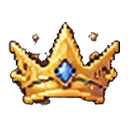
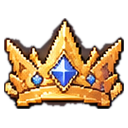
v18.2: 29 canh gioi, emoji moi, Tien cao x5 EXP

diff --git a/src/ui/quantriViews.js b/src/ui/quantriViews.js
@@ -35,7 +35,7 @@ const MODALS = {
   gear: { view: 'vp', title: 'Cho trang bị', fields: [U, { id: 't', label: 'Trang bị (tên hoặc mã)', maxLength: 80, placeholder: 'Thanh Phong Kiếm' }, { id: 'q', label: 'Phẩm chất 1–5 (mặc định 3)', required: false, maxLength: 1, placeholder: '3' }], run: (a, g) => A.gear(a, g('u'), g('t'), g('q')) },
   prof: { view: 'vp', title: 'Đặt cấp nghề', fields: [U, { id: 'p', label: 'Nghề', maxLength: 30, placeholder: 'Đan Sư / Luyện Khí Sư / Trận Pháp Sư / Linh Thực Sư' }, { id: 'l', label: 'Cấp 1–9', maxLength: 1, placeholder: '5' }, { id: 'e', label: 'EXP nghề (bỏ trống = đúng ngưỡng cấp)', required: false, maxLength: 12 }], run: (a, g) => A.profLevel(a, g('u'), g('p'), g('l'), g('e')) },
   jobs: { view: 'vp', title: 'Hoàn tất lò chế đang chạy', fields: [U], run: (a, g) => A.finishJobs(a, g('u')) },
-  realm: { view: 'nv', title: 'Đặt cảnh giới', fields: [U, { id: 'r', label: 'Cảnh giới (số 0–14 hoặc tên)', maxLength: 30, placeholder: 'Độ Kiếp  hoặc  9' }, { id: 's', label: 'Tầng (bắt đầu từ 1)', required: false, maxLength: 3, placeholder: '1' }], run: (a, g) => A.realm(a, g('u'), g('r'), g('s')) },
+  realm: { view: 'nv', title: 'Đặt cảnh giới', fields: [U, { id: 'r', label: 'Cảnh giới (số 0–28 hoặc tên)', maxLength: 30, placeholder: 'Độ Kiếp  hoặc  9' }, { id: 's', label: 'Tầng (bắt đầu từ 1)', required: false, maxLength: 3, placeholder: '1' }], run: (a, g) => A.realm(a, g('u'), g('r'), g('s')) },
   tuvi: { view: 'nv', title: 'Đặt tu vi', fields: [U, { id: 'n', label: 'Tu vi: số, +số, -số hoặc full', maxLength: 20, placeholder: 'full' }], run: (a, g) => A.tuvi(a, g('u'), g('n')) },
   lt: { view: 'nv', title: 'Đặt Linh Thạch', fields: [U, { id: 'n', label: 'Số: 1000000, +5000 hoặc -5000', maxLength: 20 }], run: (a, g) => A.currency(a, g('u'), 'linh_thach', g('n')) },
   lti: { view: 'nv', title: 'Đặt Linh Tinh', fields: [U, { id: 'n', label: 'Số: 100, +10 hoặc -10', maxLength: 20 }], run: (a, g) => A.currency(a, g('u'), 'linh_tinh', g('n')) },
@@ -45,7 +45,7 @@ const MODALS = {
     { id: 'b', label: `Tiểu cảnh giới (mặc định ${A.ORIG.minor})`, required: false, maxLength: 12 },
     { id: 'c', label: `Đại cảnh giới (mặc định ${A.ORIG.major})`, required: false, maxLength: 12 }],
   run: (a, g) => ['exp:a', 'minor:b', 'major:c'].map((x) => { const [k, f] = x.split(':'); return A.ecoSet(a, k, g(f)); }).filter((r) => !r.skip).map((r) => r.msg).join('\n') || 'ℹ Không có gì thay đổi.' },
-  tien: { view: 'kt', title: 'Hệ số cảnh giới Tiên', fields: [{ id: 'a', label: `x EXP khi đột phá trên Độ Kiếp (mặc định ${A.ORIG.tien})`, maxLength: 12, placeholder: '7' }], run: (a, g) => A.ecoSet(a, 'tien', g('a')).msg },
+  tien: { view: 'kt', title: 'Hệ số cảnh giới Tiên', fields: [{ id: 'a', label: `x EXP khi đột phá trên Độ Kiếp (mặc định ${A.ORIG.tien})`, maxLength: 12, placeholder: '7' }, { id: 'b', label: `x thêm cho Tiên cao (mặc định ${A.ORIG.tiencao})`, maxLength: 12, placeholder: '5', required: false }], run: (a, g) => [A.ecoSet(a, 'tien', g('a')).msg, A.ecoSet(a, 'tiencao', g('b')).msg].filter(Boolean).join('\n') || 'Không đổi gì.' },
   drop: { view: 'kt', title: 'Hệ số rơi nguyên liệu', fields: [{ id: 'a', label: 'Nhân xác suất rơi (0–5, mặc định 1)', maxLength: 8, placeholder: '1.5' }], run: (a, g) => `${A.ecoSet(a, 'drop', g('a')).msg}\nℹ Trần rơi theo ngày/tuần/phẩm cấp vẫn áp dụng — không thể rơi vô hạn.` },
   npc: { view: 'kt', title: 'Giá NPC', fields: [
     { id: 'a', label: 'Giá NPC thu mua ×(0.1–3, mặc định 1)', required: false, maxLength: 8 },
@@ -94,7 +94,7 @@ function viewHome(uid) {
     F('🚧 Bảo trì', o.maint ? '🔴 ĐANG BẬT (`/baotri` để tắt)' : '🟢 Tắt', true),
     F('⚡ Tăng tốc tu luyện', o.speed.active ? `×${o.speed.mult} — ${mins(o.speed.until)}` : 'Không có sự kiện', true),
     F('🎁 Tăng tỉ lệ rơi', o.evDrop.active ? `×${o.evDrop.mult} — ${mins(o.evDrop.until)}` : 'Không có sự kiện', true),
-    F('📈 Hệ số hiện hành', `EXP gốc **${A.ecoGet('exp')}** · Tiên **×${A.ecoGet('tien')}** · Rơi **×${A.ecoGet('drop')}** · NPC thu **×${A.ecoGet('sell')}** / bán **×${A.ecoGet('buy')}**`),
+    F('📈 Hệ số hiện hành', `EXP gốc **${A.ecoGet('exp')}** · Tiên **×${A.ecoGet('tien')}** · Tiên cao **×${A.ecoGet('tiencao')}** · Rơi **×${A.ecoGet('drop')}** · NPC thu **×${A.ecoGet('sell')}** / bán **×${A.ecoGet('buy')}**`),
   );
   return { embeds: [e], components: [navRow(uid, 'home')] };
 }
@@ -114,7 +114,7 @@ function viewKt(uid) {
   const R = require('../game/realm'); const o = A.overview(); const e = new EmbedBuilder().setTitle('💰 Kinh Tế').setColor(0xf39c12);
   e.setDescription(fit('Chỉnh **ngay trong game**, lưu vào cơ sở dữ liệu (còn sau khi khởi động lại), có biên an toàn. Khoảng trống bỏ qua = giữ nguyên; gõ `mac dinh` để về giá trị gốc.', 500));
   const row = (k) => { const v = A.ecoGet(k); const d = A.ORIG[k]; return `${A.ECO[k].label}: **${v}**${v === d ? '' : ` _(gốc ${d})_`}`; };
-  e.addFields(F('📊 Hệ số', ['exp', 'minor', 'major', 'tien', 'drop', 'sell', 'buy'].map(row).join('\n')),
+  e.addFields(F('📊 Hệ số', ['exp', 'minor', 'major', 'tien', 'tiencao', 'drop', 'sell', 'buy'].map(row).join('\n')),
     F('🎯 Mốc tu vi để đột phá (xem trước)', `Luyện Khí tầng 1: **${fmtNum(o.gates.tuvi0)}**\nHóa Thần Viên Mãn: **${fmtNum(o.gates.hoathan)}**\nĐộ Kiếp Viên Mãn → Chân Tiên: **${fmtNum(o.gates.dokiep)}**\nChân Tiên tầng 1: **${fmtNum(o.gates.chantien)}**`));
   return { embeds: [e], components: [navRow(uid, 'kt'), rowOf(btn(cid(uid, 'm', 'expc'), 'EXP đột phá', '📈', ButtonStyle.Primary), btn(cid(uid, 'm', 'tien'), 'Hệ số Tiên', '👑'), btn(cid(uid, 'm', 'drop'), 'Rơi đồ', '🎁'), btn(cid(uid, 'm', 'npc'), 'Giá NPC', '🏪'), btn(cid(uid, 'm', 'reset'), 'Mặc định', '↩', ButtonStyle.Danger))] };
 }

diff --git a/scripts/test_realms_v18.js b/scripts/test_realms_v18.js
@@ -44,10 +44,14 @@ for (const [r, s, w] of [[1, 0, 0], [5, 7, 1], [9, 22, 1], [10, 0, 2], [13, 3, 2
 ok(R.tuViRequiredBase(13, 0, 2) === Math.trunc(100 * 3 ** 13 * 50 ** 2), 'base idx13 giữ nguyên'); ok(R.realmSpeedMult(13) === 16 * 1.35 ** 4 || Math.abs(R.realmSpeedMult(13) - K.REALM_SPEED_MULT[9] * 1.35 ** 4) < 1e-6, 'speed idx13 giữ nguyên');
 // Tiên Đế mới (19) = đúng mức Tiên Đế cũ (14 cũ) về tốc độ (không lạm phát linh thạch)
 ok(Math.abs(R.realmSpeedMult(19) - K.REALM_SPEED_MULT[9] * 1.35 ** 5) < 1e-6, 'tốc độ Tiên Đế mới = Tiên Đế cũ');
-ok(Math.abs(R.tuViRequiredBase(19, 0, 2) / R.tuViRequiredBase(13, 0, 2) - 3) < 0.01, 'mốc Tiên Đế mới ≈ ×3 Đại La (đúng 1 bậc cũ)');
+ok(Math.abs(R.tuViRequiredBase(19, 0, 2) / R.tuViRequiredBase(13, 0, 2) - K.HIGH_REALM_GROWTH ** 6) < 0.01, 'mốc tăng ×HIGH_REALM_GROWTH mỗi bậc sau Đại La');
 ok(R.realmSpeedMult(28) < 200, `speed Siêu Thoát hợp lý: ${R.realmSpeedMult(28)}`);
-// Cơ chế v17.1 vẫn còn: x7 từ Độ Kiếp Viên Mãn trở lên
-ok(R.tienExpMult(9, 22) === 7 && R.tienExpMult(9, 21) === 1 && R.tienExpMult(28, 3) === 7 && R.tienExpMult(14, 0) === 7, 'x7 EXP Tiên');
+// Cơ chế v17.1 vẫn còn: x7 từ Độ Kiếp Viên Mãn trở lên; v18.2: Tiên cao (từ Chuẩn Tiên Vương) thêm x5 → x35
+ok(R.tienExpMult(9, 22) === 7 && R.tienExpMult(9, 21) === 1 && R.tienExpMult(10, 0) === 7 && R.tienExpMult(13, 3) === 7, 'x7 EXP Tiên (Chân Tiên … Đại La Kim Tiên)');
+ok(K.HIGH_TIEN_EXP_MULT === 5 && R.tienExpMult(14, 0) === 35 && R.tienExpMult(19, 2) === 35 && R.tienExpMult(28, 3) === 35, 'x35 EXP Tiên cao');
+// Siêu Thoát Viên Mãn ở Tiên Giới (thế giới bậc 2) vẫn DƯỚI trần (không bị phẳng hoá ở các cảnh giới cuối)
+ok(R.tuViRequired(28, 3, 2) < K.TU_VI_REQUIRED_CAP && R.tuViRequired(27, 3, 2) < R.tuViRequired(28, 3, 2), 'Tiên Giới: không chạm trần');
+ok(R.tuViRequired(14, 0, 2) === Math.trunc(R.tuViRequiredBase(14, 0, 2) * K.EXP_REQUIRED_MULT * K.EXP_GATE_MINOR_MULT * 35), 'công thức Tiên cao');
 // --- đột phá thật qua dotpha: đi liên tiếp từ Luyện Khí Tầng 1 tới Siêu Thoát Viên Mãn (ép may mắn), rồi bị chặn
 Cu.createCultivator(901);
 const origRand = Math.random; Math.random = () => 0.0001;
@@ -84,8 +88,9 @@ ok(EM.realmEmoji(99) === EM.realmEmoji(28) && EM.realmEmoji(-3) === EM.realmEmoj
 for (const k of ['so_ky', 'trung_ky', 'hau_ky', 'vien_man']) { ok(fs.existsSync(path.join(__dirname, '..', 'assets', 'emoji', `${k}.png`)) && EM.FALLBACK[k], `emoji ${k}`); }
 ok(EM.stageEmoji(19, 0) && EM.stageEmoji(19, 0) !== EM.stageEmoji(19, 3) && EM.stageEmoji(1, 5) === '' && EM.stageEmoji(0, 0) === '', 'stageEmoji');
 ok(EM.remoteName('canhgioi_14') === 'tg7_canhgioi_14_v18' && EM.remoteName('canhgioi_13') === 'tg7_canhgioi_13' && EM.remoteName('canhgioi_14').length <= 32, 'tên emoji trên Discord');
-// canhgioi_19 = tranh vương miện của Tiên Đế cũ (giữ nguyên)
-ok(crc(19) === '5eeefd55934b6569f3811f427d4593f2', 'canhgioi_19 phải là vương miện Tiên Đế cũ'); ok(crc(14) !== crc(19), 'canhgioi_14 mới khác vương miện');
+// v18.1: emoji 14–28 là tranh người dùng tự vẽ (cắt từ sheet) — phải có nền trong suốt (alpha) và không rỗng
+for (let i = 14; i <= 28; i++) { const png = fs.readFileSync(path.join(__dirname, '..', 'assets', 'emoji', `canhgioi_${i}.png`)); ok(png[25] === 6, `canhgioi_${i}.png phải là RGBA`); ok(png.length > 3000, `canhgioi_${i}.png quá nhỏ`); }
+ok(fs.existsSync(path.join(__dirname, '..', 'assets', 'source', 'canhgioi_sheet_v18_1.png')), 'thiếu sheet gốc canhgioi_sheet_v18_1.png');
 // cố định: realm cấp thấp (0–13) giữ nguyên ảnh? đã có trong git; kiểm tra tên file còn đủ
 ok(Object.keys(EM.FALLBACK).filter((k) => /^canhgioi_\d+$/.test(k)).length >= 29, 'fallback đủ 29');
 console.log(`✅ test_realms_v18 OK (${n} kiểm tra)`);

diff --git a/src/game/constants.js b/src/game/constants.js
@@ -35,8 +35,8 @@ const TIEN_DE_REALM_IDX = REALMS.findIndex((r) => r.name === 'Tiên Đế');   /
 
 // v18.0: với 29 cảnh giới, công thức ×3 / đại cảnh giới (và ×1,35 hệ số tốc độ) sẽ TRÀN số nguyên khi lên tới Siêu Thoát (3^28 × 50^tier > 2^63).
 // Từ SAU Đại La Kim Tiên (idx 13) tăng chậm hơn: mỗi đại cảnh giới ×3^(1/6) mốc tu vi, ×1,35^(1/6) hệ số tốc độ — nên 6 bậc sau Đại La Kim Tiên (tức Tiên Đế mới, idx 19)
-// ra ĐÚNG mức 1 bậc cũ (Tiên Đế cũ, idx 14) → người chơi Tiên Đế cũ không bị lạm phát/thiếu hụt tu vi, linh thạch khi chuyển sang cảnh giới mới.
-const HIGH_REALM_GROWTH = 3 ** (1 / 6);
+// ra ĐÚNG mức tốc độ/linh thạch của Tiên Đế cũ (idx 14) → người chơi Tiên Đế cũ không bị lạm phát linh thạch khi chuyển sang cảnh giới mới.
+const HIGH_REALM_GROWTH = 1.165;   // v18.2 (v18.0: 3^(1/6)≈1,2009): chậm hơn một chút để Siêu Thoát Viên Mãn sau khi nhân x35 vẫn dưới trần ở Tiên Giới (thế giới bậc 2)
 const HIGH_REALM_SPEED_STEP = 1.35 ** (1 / 6);
 // Trần an toàn của mốc tu vi: 9×10^15 < Number.MAX_SAFE_INTEGER (2^53-1) — số lớn hơn không còn chính xác trong JS / cột INTEGER đọc về bằng number.
 const TU_VI_REQUIRED_CAP = 9e15;
@@ -62,6 +62,10 @@ const EXP_GATE_MAJOR_MULT = _gm('EXP_GATE_MAJOR_MULT', 0.12)   // v16.1: giảm 
 // v17.1: mốc tu vi để đột phá TRÊN Độ Kiếp Viên Mãn (tức bước vào & đi trong các cảnh giới Tiên) nhân thêm hệ số này (mặc định x7).
 // Chỉ tác động R.tuViRequired (điều kiện đột phá/hiển thị); tốc độ & phần thưởng tu vi tính từ mốc GỐC nên KHÔNG đổi. Env TIEN_EXP_MULT để chỉnh.
 const TIEN_EXP_MULT = _gm('TIEN_EXP_MULT', 7);
+// v18.2: các cảnh giới TIÊN CAO (từ Chuẩn Tiên Vương, tức sau Đại La Kim Tiên) cần thêm x5 EXP đột phá, NHÂN CHỒNG với x7 ở trên (tổng x35 so với trước v17.1).
+// Cùng nguyên tắc: chỉ đổi mốc tu vi (R.tuViRequired); tốc độ/phần thưởng không đổi. Env HIGH_TIEN_EXP_MULT; /quantri → Kinh tế → "Hệ số Tiên" chỉnh được.
+const HIGH_TIEN_EXP_MULT = _gm('HIGH_TIEN_EXP_MULT', 5);
+const HIGH_TIEN_START_IDX = 14;   // = DAILA_REALM_IDX + 1 (Chuẩn Tiên Vương)
 
 const HOATHAN_REALM_IDX = 5;
 const HOATHAN_VIENMAN_STAGE = totalStageCount(HOATHAN_REALM_IDX) - 1;
@@ -87,6 +91,6 @@ module.exports = {
   ...C,
   ADMIN_CODE_APPROVER_IDS, ADMIN_DISCORD_IDS, addAdmin, REALMS, TANG_20, TANG_23, totalStageCount,
   MAX_REALM_IDX, DAILA_REALM_IDX, HIGH_REALM_GROWTH, HIGH_REALM_SPEED_STEP, TU_VI_REQUIRED_CAP, OLD_TIENDE_REALM_IDX, TIEN_DE_REALM_IDX,
-  HOATHAN_REALM_IDX, HOATHAN_VIENMAN_STAGE, DOKIEP_REALM_IDX, DOKIEP_VIENMAN_STAGE, EXP_REQUIRED_MULT, EXP_GATE_MINOR_MULT, EXP_GATE_MAJOR_MULT, TIEN_EXP_MULT,
+  HOATHAN_REALM_IDX, HOATHAN_VIENMAN_STAGE, DOKIEP_REALM_IDX, DOKIEP_VIENMAN_STAGE, EXP_REQUIRED_MULT, EXP_GATE_MINOR_MULT, EXP_GATE_MAJOR_MULT, TIEN_EXP_MULT, HIGH_TIEN_EXP_MULT, HIGH_TIEN_START_IDX,
   _REALM_SPEED_MAX_KNOWN: Math.max(...Object.keys(C.REALM_SPEED_MULT).map(Number)),
 };

diff --git a/scripts/test_quantri_v17_2.js b/scripts/test_quantri_v17_2.js
@@ -79,7 +79,7 @@ for (let k = 0; k < 40; k += 1) A.log(ADMIN, 'thu_nghiem', P, 'chi tiết dài '
   ok(/Đã cho/.test(await submit('give', { u: P, t: `${basic.name} x2` })), 'modal give'); ok(/Đã thu/.test(await submit('take', { u: P, t: `${basic.name} x1` })), 'modal take');
   ok(/Đã cho/.test(await submit('gear', { u: P, t: gname, q: '4' })), 'modal gear'); ok(/cấp/.test(await submit('prof', { u: P, p: 'Luyện Khí Sư', l: '4', e: '' })), 'modal prof'); ok(/lò/.test(await submit('jobs', { u: P })), 'modal jobs');
   ok(/Độ Kiếp/.test(await submit('realm', { u: P, r: 'Độ Kiếp', s: '1' })), 'modal realm'); ok(/Tu vi/.test(await submit('tuvi', { u: P, n: 'full' })), 'modal tuvi'); ok(/Linh Thạch/.test(await submit('lt', { u: P, n: '+100' })), 'modal lt'); ok(/Linh Tinh/.test(await submit('lti', { u: P, n: '+1' })), 'modal lti'); ok(/hồi/i.test(await submit('heal', { u: P })), 'modal heal');
-  ok(/EXP/.test(await submit('expc', { a: String(A.ORIG.exp * 2), b: '', c: '' })) && K.EXP_REQUIRED_MULT === A.ORIG.exp * 2, 'modal expc'); ok(/Tiên/.test(await submit('tien', { a: '10' })) && K.TIEN_EXP_MULT === 10, 'modal tien'); ok(/rơi/.test(await submit('drop', { a: '1.5' })) && A.dropMult() === 1.5, 'modal drop'); ok(/NPC/.test(await submit('npc', { a: '1.2', b: '' })), 'modal npc');
+  ok(/EXP/.test(await submit('expc', { a: String(A.ORIG.exp * 2), b: '', c: '' })) && K.EXP_REQUIRED_MULT === A.ORIG.exp * 2, 'modal expc'); ok(/Tiên/.test(await submit('tien', { a: '10' })) && K.TIEN_EXP_MULT === 10, 'modal tien'); ok(/Tiên cao/.test(await submit('tien', { a: '', b: '9' })) && K.HIGH_TIEN_EXP_MULT === 9, 'modal tiên cao'); A.ecoSet(ADMIN, 'tiencao', 'mac dinh'); ok(K.HIGH_TIEN_EXP_MULT === 5, 'tiên cao về mặc định'); ok(/rơi/.test(await submit('drop', { a: '1.5' })) && A.dropMult() === 1.5, 'modal drop'); ok(/NPC/.test(await submit('npc', { a: '1.2', b: '' })), 'modal npc');
   ok(/Chưa xác nhận/.test(await submit('reset', { a: 'sai' })) && A.dropMult() === 1.5, 'reset cần xác nhận'); ok(/mặc định/.test(await submit('reset', { a: 'dongy' })) && A.dropMult() === 1 && K.EXP_REQUIRED_MULT === A.ORIG.exp, 'reset');
   ok(/×3/.test(await submit('evspeed', { m: '3', p: '10', n: 'co' })) && ST.speedMult() === 3, 'modal tăng tốc'); ok(/Đã tắt/.test(await submit('evspeed', { m: 'tat', p: '', n: 'khong' })) && ST.speedMult() === 1, 'modal tắt tăng tốc');
   ok(/×2/.test(await submit('evdrop', { m: '2', p: '5', n: 'khong' })) && A.dropMult() === 2, 'modal evdrop'); ok(/Đã tắt/.test(await submit('evdrop', { m: 'tat', p: '', n: 'khong' })) && A.dropMult() === 1, 'tắt evdrop'); ok(/kênh thế giới|Đã gửi/.test(await submit('ann', { t: 'Bảo trì', c: 'Nội dung' })), 'modal thông báo');

diff --git a/src/game/realm.js b/src/game/realm.js
@@ -44,8 +44,11 @@ function tuViRequiredBase(realmIdx, stageIdx, worldTier = 0) {
 /** Mốc cũ (trước v14.0, chưa áp hệ số ĐẠI/TIỂU cảnh giới) — chỉ dùng để tính mốc Lực Chiến Thiên Kiếp cho khỏi lệch. */
 const tuViRequiredLegacy = (realmIdx, stageIdx, worldTier = 0) => int(tuViRequiredBase(realmIdx, stageIdx, worldTier) * K.EXP_REQUIRED_MULT);
 const isMajorGate = (realmIdx, stageIdx) => stageIdx >= K.totalStageCount(realmIdx) - 1;      // tầng cuối của cảnh giới = cửa ải sang ĐẠI cảnh giới kế
-/** v17.1: đột phá TRÊN Độ Kiếp Viên Mãn (cửa ải Độ Kiếp Viên Mãn → Chân Tiên và mọi tiểu cảnh giới của Chân Tiên … Siêu Thoát) cần tu vi x K.TIEN_EXP_MULT (7). */
-const tienExpMult = (realmIdx, stageIdx) => (realmIdx > K.DOKIEP_REALM_IDX || (realmIdx === K.DOKIEP_REALM_IDX && stageIdx >= K.DOKIEP_VIENMAN_STAGE)) ? K.TIEN_EXP_MULT : 1;
+/** v17.1: đột phá TRÊN Độ Kiếp Viên Mãn (cửa ải Độ Kiếp Viên Mãn → Chân Tiên và mọi tiểu cảnh giới của Chân Tiên … Siêu Thoát) cần tu vi x K.TIEN_EXP_MULT (7). v18.2: từ Chuẩn Tiên Vương (idx ≥ 14) nhân thêm K.HIGH_TIEN_EXP_MULT (5) → tổng x35. */
+const tienExpMult = (realmIdx, stageIdx) => {
+  if (!(realmIdx > K.DOKIEP_REALM_IDX || (realmIdx === K.DOKIEP_REALM_IDX && stageIdx >= K.DOKIEP_VIENMAN_STAGE))) return 1;
+  return K.TIEN_EXP_MULT * (realmIdx >= K.HIGH_TIEN_START_IDX ? K.HIGH_TIEN_EXP_MULT : 1);   // v18.2: Tiên cao (từ Chuẩn Tiên Vương) thêm x5 nhân chồng
+};
 const tuViRequired = (realmIdx, stageIdx, worldTier = 0) => Math.min(K.TU_VI_REQUIRED_CAP, int(tuViRequiredBase(realmIdx, stageIdx, worldTier) * K.EXP_REQUIRED_MULT * (isMajorGate(realmIdx, stageIdx) ? K.EXP_GATE_MAJOR_MULT : K.EXP_GATE_MINOR_MULT) * tienExpMult(realmIdx, stageIdx)));
 
 /** [realmIdx, stageIdx] kế tiếp, hoặc null nếu đã ở Siêu Thoát Viên Mãn (đỉnh cao nhất hiện tại). */

diff --git a/src/game/admin17.js b/src/game/admin17.js
@@ -120,18 +120,19 @@ function heal(admin, userText) {
 }
 
 // ------------------------------------------------------------------ kinh tế (chỉnh lúc chạy)
-const ORIG = { exp: K.EXP_REQUIRED_MULT, minor: K.EXP_GATE_MINOR_MULT, major: K.EXP_GATE_MAJOR_MULT, tien: K.TIEN_EXP_MULT, drop: 1, sell: 1, buy: 1 };
+const ORIG = { exp: K.EXP_REQUIRED_MULT, minor: K.EXP_GATE_MINOR_MULT, major: K.EXP_GATE_MAJOR_MULT, tien: K.TIEN_EXP_MULT, tiencao: K.HIGH_TIEN_EXP_MULT, drop: 1, sell: 1, buy: 1 };
 const ECO = {
   exp: { label: 'EXP cần đột phá (gốc)', prop: 'EXP_REQUIRED_MULT', min: 1, max: 100000 },
   minor: { label: 'Hệ số tiểu cảnh giới', prop: 'EXP_GATE_MINOR_MULT', min: 0.01, max: 10 },
   major: { label: 'Hệ số đại cảnh giới', prop: 'EXP_GATE_MAJOR_MULT', min: 0.01, max: 10 },
   tien: { label: 'Hệ số cảnh giới Tiên', prop: 'TIEN_EXP_MULT', min: 1, max: 1000 },
+  tiencao: { label: 'Hệ số Tiên cao (từ Chuẩn Tiên Vương)', prop: 'HIGH_TIEN_EXP_MULT', min: 1, max: 1000 },
   drop: { label: 'Tỉ lệ rơi nguyên liệu', min: 0, max: 5 },
   sell: { label: 'Giá NPC thu mua', min: 0.1, max: 3 },
   buy: { label: 'Giá NPC bán', min: 0.1, max: 5 },
 };
 function ecoGet(key) { const v = ST.get(`eco_${key}`, ''); const n = Number(v); return v !== '' && Number.isFinite(n) ? n : ORIG[key]; }
-function applyEco() { for (const k of ['exp', 'minor', 'major', 'tien']) K[ECO[k].prop] = ecoGet(k); }
+function applyEco() { for (const k of ['exp', 'minor', 'major', 'tien', 'tiencao']) K[ECO[k].prop] = ecoGet(k); }
 /** Đặt 1 hệ số. value rỗng/'mac_dinh' = về mặc định. Trả { ok, msg }. */
 function ecoSet(admin, key, value) {
   const d = ECO[key]; if (!d) return { ok: false, msg: '❌ Hệ số lạ.' };

diff --git a/src/ui/skin.js b/src/ui/skin.js
@@ -1,7 +1,7 @@
 'use strict';
 /**
  * LỚP ĐỒNG BỘ GIAO DIỆN — mọi tin nhắn bot gửi ra (tính năng cũ lẫn mới) đều đi qua đây để:
- *  • Embed cũ: đổi màu về bảng màu v7, thêm footer "✦ Tiên Giới Bot v18.0 · Thiên Đạo" + timestamp, ép giới hạn Discord.
+ *  • Embed cũ: đổi màu về bảng màu v7, thêm footer "✦ Tiên Giới Bot v18.2 · Thiên Đạo" + timestamp, ép giới hạn Discord.
  *  • Tin nhắn chữ thuần ("❌ …", "⏳ …", "✅ …") → Embed chuẩn (thành công/lỗi/cooldown/cảnh báo/thông tin) có mã lỗi E00x.
  *  • Mọi emoji tuỳ chỉnh cũ gắn cứng ID → emoji pixel hiện hành (không bao giờ hiện ":tên:" thô).
  *  • Bọc interaction: reply/editReply/followUp/update an toàn (không lỗi "đã trả lời"), tự báo "đang xử lý" nếu chậm >2,2s.

diff --git a/scripts/test_tien_exp_v17_1.js b/scripts/test_tien_exp_v17_1.js
@@ -8,7 +8,7 @@ let n = 0;
 for (let r = 1; r < K.REALMS.length; r++) {
   const cnt = K.totalStageCount(r);
   for (let s = 0; s < cnt; s++) for (const w of [0, 1, 2]) {
-    const exp = (r > K.DOKIEP_REALM_IDX || (r === K.DOKIEP_REALM_IDX && s === K.DOKIEP_VIENMAN_STAGE)) ? 7 : 1;
+    const exp = (r > K.DOKIEP_REALM_IDX || (r === K.DOKIEP_REALM_IDX && s === K.DOKIEP_VIENMAN_STAGE)) ? 7 * (r >= K.HIGH_TIEN_START_IDX ? K.HIGH_TIEN_EXP_MULT : 1) : 1;   // v18.2: Tiên cao (≥ Chuẩn Tiên Vương) x7 x5
     assert.strictEqual(R.tuViRequired(r, s, w), Math.min(K.TU_VI_REQUIRED_CAP, Math.trunc(raw(r, s, w) * exp)), `r${r} s${s} w${w}`);   // v18.0: có trần chống tràn số
     assert.strictEqual(R.tienExpMult(r, s), exp); n++;
   }

diff --git a/src/bot.js b/src/bot.js
@@ -130,7 +130,7 @@ function buildClient({ content: withContent, members: USE_MEMBERS }) {
 }
 
 async function main() {
-  console.log(`🌸 Tiên Giới Bot v18.0 (${BOT_VERSION}) — Node ${process.version}`);
+  console.log(`🌸 Tiên Giới Bot v18.2 (${BOT_VERSION}) — Node ${process.version}`);
   if (!TOKEN) {
     console.error('❌ Thiếu DISCORD_TOKEN. Hãy tạo file .env (hoặc mục Startup/Variables của host) với dòng:  DISCORD_TOKEN=token_bot_cua_ban');
     process.exit(1);

diff --git a/src/ui/theme/typography.js b/src/ui/theme/typography.js
@@ -2,7 +2,7 @@
 /** Quy chuẩn chữ & phân cách của Embed v7. */
 const DIVIDER = '━━━━━━━━━━━━━━━━━━━━';
 const MARK = '✦';
-const FOOTER_TEXT = `${MARK} Tiên Giới Bot v18.0 · Thiên Đạo`;
+const FOOTER_TEXT = `${MARK} Tiên Giới Bot v18.2 · Thiên Đạo`;
 const bold = (s) => `**${s}**`;
 const sub = (s) => `*${s}*`;
 const quote = (s) => String(s).split('\n').map((l) => `> ${l}`).join('\n');

diff --git a/scripts/build_emoji_from_sheet_v18_canhgioi.py b/scripts/build_emoji_from_sheet_v18_canhgioi.py
@@ -1,0 +1,58 @@
+#!/usr/bin/env python3
+"""
+build_emoji_from_sheet_v18_canhgioi.py — cắt emoji cảnh giới 14–28 từ BẢNG TRANH DO NGƯỜI DÙNG TỰ VẼ (assets/source/canhgioi_sheet_v18_1.png).
+Nền panel là màu xanh navy đồng nhất → tách theo khoảng cách màu với nền cục bộ + lấp lỗ, xuất PNG 128x128 nền trong suốt, đặt giữa.
+Chỉ ghi canhgioi_14..28; KHÔNG đụng canhgioi_0..13 và các emoji khác.
+Chạy:  python3 scripts/build_emoji_from_sheet_v18_canhgioi.py [đường_dẫn_sheet]
+"""
+import os, sys
+import numpy as np
+from PIL import Image, ImageFilter
+from scipy import ndimage as ndi
+
+HERE = os.path.dirname(os.path.abspath(__file__))
+OUT = os.path.normpath(os.path.join(HERE, '..', 'assets', 'emoji'))
+SHEET = sys.argv[1] if len(sys.argv) > 1 else os.path.normpath(os.path.join(HERE, '..', 'assets', 'source', 'canhgioi_sheet_v18_1.png'))
+
+# (khoảng x, khoảng y) vùng chứa icon (trên nhãn chữ) — toạ độ trên ảnh gốc 1536x1024
+BOX = {
+    14: (560, 760, 425, 545), 15: (790, 975, 425, 545), 16: (1000, 1190, 425, 545), 17: (1235, 1400, 425, 545),
+    18: (152, 320, 585, 700), 19: (360, 540, 585, 700), 20: (580, 760, 585, 700), 21: (790, 975, 585, 700), 22: (1000, 1190, 585, 700), 23: (1220, 1390, 585, 700),
+    24: (172, 340, 740, 875), 25: (370, 570, 740, 875), 26: (590, 820, 740, 875), 27: (840, 1060, 740, 875), 28: (1110, 1320, 740, 875),
+}
+
+
+def cut(im, box, thr=34):
+    x0, x1, y0, y1 = box
+    a = np.asarray(im.convert('RGB'), dtype=np.float32)[y0:y1, x0:x1]
+    border = np.concatenate([a[0], a[-1], a[:, 0], a[:, -1]])
+    bg = np.median(border, axis=0)
+    dist = np.sqrt(((a - bg) ** 2).sum(-1))
+    m = dist > thr
+    m = ndi.binary_closing(m, iterations=3)
+    m = ndi.binary_fill_holes(m)
+    lab, n = ndi.label(m)
+    if n == 0: raise SystemExit(f'không tách được icon trong {box}')
+    sizes = ndi.sum(m, lab, range(1, n + 1)); main = int(np.argmax(sizes)) + 1
+    near = ndi.distance_transform_edt(lab != main) <= 22          # giữ thêm tia sáng/hạt linh khí sát icon, bỏ mảng nền (núi, mép panel) ở xa
+    keep = [i + 1 for i, sz in enumerate(sizes) if sz >= 12 and (i + 1 == main or near[lab == i + 1].any() and sz < sizes.max() * 0.5)]
+    m = np.isin(lab, keep)
+    m = ndi.binary_opening(m, iterations=1)
+    ys, xs = np.where(m)
+    return Image.fromarray(a.astype(np.uint8)).convert('RGBA'), m, (xs.min(), ys.min(), xs.max() + 1, ys.max() + 1)
+
+
+def to_emoji(im, box):
+    rgba, m, (l, t, r, b) = cut(im, box)
+    alpha = Image.fromarray((m * 255).astype(np.uint8)).filter(ImageFilter.GaussianBlur(0.8))
+    rgba.putalpha(alpha)
+    ic = rgba.crop((l, t, r, b)); w, h = ic.size; s = 120.0 / max(w, h)
+    ic = ic.resize((max(1, round(w * s)), max(1, round(h * s))), Image.LANCZOS)
+    out = Image.new('RGBA', (128, 128), (0, 0, 0, 0)); out.alpha_composite(ic, ((128 - ic.size[0]) // 2, (128 - ic.size[1]) // 2)); return out
+
+
+if __name__ == '__main__':
+    im = Image.open(SHEET)
+    for idx, box in BOX.items():
+        to_emoji(im, box).save(os.path.join(OUT, f'canhgioi_{idx}.png'))
+    print('đã cắt', len(BOX), 'emoji cảnh giới 14–28 từ', SHEET)

diff --git a/scripts/make_pixel_emoji_v18_canhgioi.py b/scripts/make_pixel_emoji_v18_canhgioi.py
@@ -13,6 +13,7 @@ make_pixel_emoji_v18_canhgioi.py — vẽ emoji pixel cho 15 cảnh giới MỚI
   canhgioi_28 Siêu Thoát        cổng vượt ngoài vũ trụ
   so_ky / trung_ky / hau_ky / vien_man   4 tiểu cảnh giới (đĩa ngọc đầy 1/4, 1/2, 3/4, trọn vẹn)
 
+LƯU Ý v18.1: emoji cảnh giới 14–28 hiện dùng TRANH DO NGƯỜI DÙNG TỰ VẼ, cắt bằng scripts/build_emoji_from_sheet_v18_canhgioi.py — script này chỉ còn dùng để vẽ 4 emoji tiểu cảnh giới (vẽ cảnh giới 14–28 chỉ chạy khi chưa có sheet gốc).
 KHÔNG đụng canhgioi_0..13. Ghi luôn emoji Unicode dự phòng vào src/data/emoji_fallback.json.
 Chạy:  python3 scripts/make_pixel_emoji_v18_canhgioi.py [--sheet contact_sheet.png]
 """
@@ -347,8 +348,9 @@ def build(sheet=None):
     # Tiên Đế (19): giữ NGUYÊN tranh vương miện cũ. File canhgioi_19.png do bước chuyển (sao chép canhgioi_14 cũ) tạo — script KHÔNG ghi đè.
     if not os.path.exists(os.path.join(OUT, 'canhgioi_19.png')):
         raise SystemExit('thiếu canhgioi_19.png (bản sao vương miện Tiên Đế cũ): chạy `cp assets/emoji/canhgioi_14.png assets/emoji/canhgioi_19.png` TRƯỚC khi vẽ lại canhgioi_14')
-    for idx, (fn, _uni) in REALMS.items():
-        im = fn(); save(im, f'canhgioi_{idx}', OUT)
+    if not os.path.exists(os.path.join(OUT, '..', 'source', 'canhgioi_sheet_v18_1.png')):
+        for idx, (fn, _uni) in REALMS.items():
+            im = fn(); save(im, f'canhgioi_{idx}', OUT)
     for idx, uni in UNI.items(): fb[f'canhgioi_{idx}'] = uni
     for key, (frac, col, uni) in STAGES.items():
         save(stage_disc(frac, col, final=(frac >= 1)), key, OUT); fb[key] = uni
